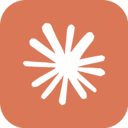
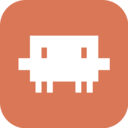
feat: usa o logomark do Claude Code em vez do logomark do Claude

Changed region(s): [[0.125, 0.1562, 0.875, 0.8438]]

diff --git a/content.js b/content.js
@@ -32,10 +32,11 @@ const TASK_NAME_SELECTORS = [
   ".cu-task-title__title",
   ".cu-task-title__overlay",
 ];
-const CLAUDE_ICON = `<svg viewBox="0 0 24 24" width="16" height="16" aria-hidden="true" focusable="false"><path fill="currentColor" d="M4.709 15.955l4.72-2.647.079-.23-.08-.128H9.2l-.79-.048-2.698-.073-2.339-.097-2.266-.122-.571-.121L0 11.784l.055-.352.48-.321.686.06 1.52.103 2.278.158 1.652.097 2.449.255h.389l.055-.157-.134-.098-.103-.097-2.358-1.596-2.552-1.688-1.336-.972-.724-.491-.364-.462-.158-1.008.656-.722.881.06.225.061.893.686 1.908 1.476 2.491 1.833.365.304.145-.103.019-.073-.164-.274-1.355-2.446-1.446-2.49-.644-1.032-.17-.619a2.97 2.97 0 01-.104-.729L6.283.134 6.696 0l.996.134.42.365.62 1.414 1.002 2.229 1.555 3.03.456.898.243.832.091.255h.158V9.01l.128-1.706.237-2.095.23-2.695.08-.76.376-.91.747-.492.584.28.48.685-.067.444-.286 1.851-.559 2.903-.364 1.942h.212l.243-.242.985-1.306 1.652-2.064.73-.82.85-.904.547-.431h1.033l.76 1.129-.34 1.166-1.064 1.347-.881 1.142-1.264 1.7-.79 1.36.073.11.188-.02 2.856-.606 1.543-.28 1.841-.315.833.388.091.395-.328.807-1.969.486-2.309.462-3.439.813-.042.03.049.061 1.549.146.662.036h1.622l3.02.225.79.522.474.638-.079.485-1.215.62-1.64-.389-3.829-.91-1.312-.329h-.182v.11l1.093 1.068 2.006 1.81 2.509 2.33.127.578-.322.455-.34-.049-2.205-1.657-.851-.746-1.926-1.62h-.128v.17l.444.649 2.345 3.521.122 1.08-.17.353-.608.213-.668-.122-1.374-1.925-1.415-2.167-1.143-1.943-.14.08-.674 7.254-.316.37-.729.28-.607-.461-.322-.747.322-1.476.389-1.924.315-1.53.286-1.9.17-.632-.012-.042-.14.018-1.434 1.967-2.18 2.945-1.726 1.845-.414.164-.717-.37.067-.662.401-.589 2.388-3.036 1.44-1.882.93-1.086-.006-.158h-.055L4.132 18.56l-1.13.146-.487-.456.061-.746.231-.243 1.908-1.312-.006.006z"/></svg>`;
+
+// Logomark do Claude Code, inline para nao depender de web_accessible_resources.
+const CLAUDE_ICON = `<svg viewBox="0 5 24 15" width="20" height="12.5" fill-rule="evenodd" clip-rule="evenodd" aria-hidden="true" focusable="false"><path fill="currentColor" d="M20.998 10.949H24v3.102h-3v3.028h-1.487V20H18v-2.921h-1.487V20H15v-2.921H9V20H7.488v-2.921H6V20H4.487v-2.921H3V14.05H0V10.95h3V5h17.998v5.949zM6 10.949h1.488V8.102H6v2.847zm10.51 0H18V8.102h-1.49v2.847z"/></svg>`;
 
 const CHECK_ICON = `<svg viewBox="0 0 24 24" width="16" height="16" aria-hidden="true" focusable="false"><path fill="none" stroke="currentColor" stroke-width="2.5" stroke-linecap="round" stroke-linejoin="round" d="M4.5 12.5l5 5 10-11"/></svg>`;
-
 
 const CARET_ICON = `<svg viewBox="0 0 12 12" width="10" height="10" aria-hidden="true" focusable="false"><path fill="none" stroke="currentColor" stroke-width="1.6" stroke-linecap="round" stroke-linejoin="round" d="M3 4.5L6 7.5l3-3"/></svg>`;
 
